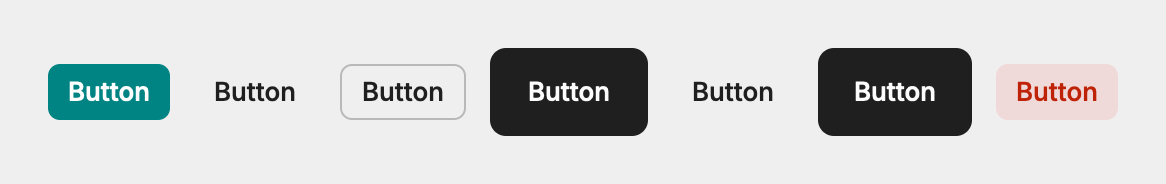
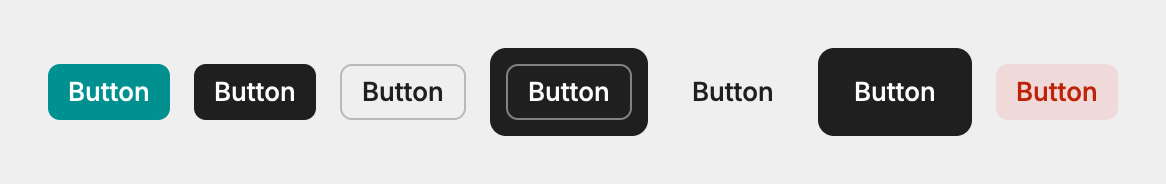
fix(but-ui): draw outline edges stronger on a selected row
On a selected row's solid fill an outline button's edge used the same
mix as on a plain row: a coloured one its hue at 30%, outline-inverted
inverse-foreground at 26%. A faint light line on the dark fill reads
much fainter than the same dark line on a light ground, so the push and
update buttons and the eye beside them nearly vanished there.

On a solid selection a coloured outline's edge now goes to 55% and
outline-inverted's to 45%, in but-ui-react's Button and but-ui-gpui's
theme alike. Plain rows keep 30% and 26%. The buttons note says why,
and the pantry's GPUI shots of Variants and Icon Only are retaken.

diff --git a/packages/but-ui-react/src/Button.module.css b/packages/but-ui-react/src/Button.module.css
@@ -132,9 +132,11 @@
 	--button-hover-bg: var(--but-hover);
 }
 
+/* The edge is stronger than outline's 26%: a faint light line on the dark fill reads fainter
+   than the same dark line on a light one. */
 :where(.outline-inverted) {
 	--button-edge: 1px;
-	--button-border: 1px solid color-mix(in srgb, var(--but-inverse-foreground) 26%, transparent);
+	--button-border: 1px solid color-mix(in srgb, var(--but-inverse-foreground) 45%, transparent);
 	--button-bg: transparent;
 	--button-fg: var(--but-inverse-foreground);
 	--button-hover-bg: var(--but-inverse-ghost-hover);
@@ -170,8 +172,10 @@
 	--button-hover-icon-opacity: 0.9;
 
 	/* Inside a selected row on the solid fill, the opposite scheme keeps the colour: every
-	   light-dark() colour resolves to its inverted value, as Badge and MetaCount do. */
+	   light-dark() colour resolves to its inverted value, as Badge and MetaCount do. The edge
+	   goes to 55% there, as outline-inverted's is stronger than outline's. */
 	@container style(--selection-inverted: true) {
+		--button-border: 1px solid color-mix(in srgb, var(--button-fg) 55%, transparent);
 		color-scheme: dark;
 
 		@container style(--scheme-dark: true) {

diff --git a/crates/but-ui-gpui/src/theme.rs b/crates/but-ui-gpui/src/theme.rs
@@ -75,8 +75,9 @@ pub struct Derived {
     pub muted_hover: Hsla,
     /// `primary` with 14% of `foreground` in it: a checked box or radio under the pointer.
     pub primary_checked_hover: Hsla,
-    /// `inverse-foreground` at 26%, as `input` is `foreground` at 26%: an outline's edge on a
-    /// solid selection, as React's `outline-inverted`.
+    /// `inverse-foreground` at 45%: an outline's edge on a solid selection, as React's
+    /// `outline-inverted`. Stronger than `input`'s 26%, as a faint light edge on a dark fill
+    /// reads fainter than the same dark edge on a light one.
     pub inverse_input: Hsla,
     /// `inverse-muted-foreground` at 40%: a tree's guide on a solid selection, as
     /// but-ui-react's `--guide-color` there.
@@ -163,7 +164,7 @@ impl Derived {
         Derived {
             muted_hover: color(mix(rgb_hex(c.muted), rgb_hex(c.muted_nested), 0.5)),
             primary_checked_hover: primary_checked_hover(c),
-            inverse_input: c.inverse_foreground.opacity(0.26),
+            inverse_input: c.inverse_foreground.opacity(0.45),
             inverse_guide: c.inverse_muted_foreground.opacity(0.4),
             joined_line_on_solid: c.inverse_foreground.opacity(0.08),
             inverse_success_text: on_inverse(c.success_text),
@@ -904,8 +905,9 @@ impl Theme {
     }
 
     /// A coloured outline button's text, edge and hover on a solid selection: its hue in the
-    /// other scheme's values, as but-ui-react's Button flips its scheme there. Only info,
-    /// success and warning are coloured; anything else takes the inverted ghost's.
+    /// other scheme's values, as but-ui-react's Button flips its scheme there, with the edge at
+    /// 55% rather than 30%, as `inverse_input` is stronger than `input`. Only info, success
+    /// and warning are coloured; anything else takes the inverted ghost's.
     pub fn outline_on_solid(&self, hue: Option<Hue>) -> (Hsla, Hsla, Hsla) {
         let flip = &self.on_solid;
         let (text, hover) = match hue {
@@ -914,7 +916,7 @@ impl Theme {
             Some(Hue::Safe) => (flip.success_text, flip.success_outline_hover),
             _ => (self.inverse_foreground, self.inverse_ghost_hover),
         };
-        (text, text.opacity(0.3), hover)
+        (text, text.opacity(0.55), hover)
     }
 
     /// Under the pointer, a coloured outline button's ground: its hue's faintest see-through

diff --git a/packages/but-ui/design/components/buttons.md b/packages/but-ui/design/components/buttons.md
@@ -20,7 +20,10 @@ to a quiet one.
 - **`info`, `warning`, `success`** — `outline` in a colour: the colour's text,
   an edge of it at 30%, and under the pointer its faintest see-through tint
   (`--but-*-outline-hover`). For the next step of a coloured count (see
-  [Meta lines](meta-lines.md)).
+  [Meta lines](meta-lines.md)). On a selected row's solid fill the edge goes
+  to 55%, as `outline-inverted`'s goes to 45% from `outline`'s 26%: a faint
+  light line on a dark fill reads fainter than the same dark line on a light
+  one.
 
 **A coloured outline is a count's next step, and only that.** Push beside an
 unpushed count is `info`, Update beside a behind count is `warning`, Merge once
